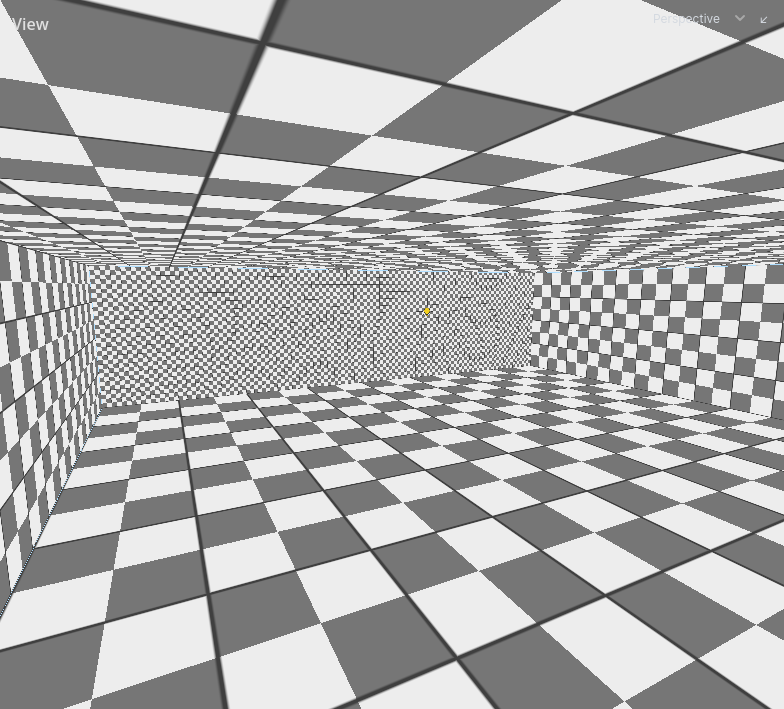
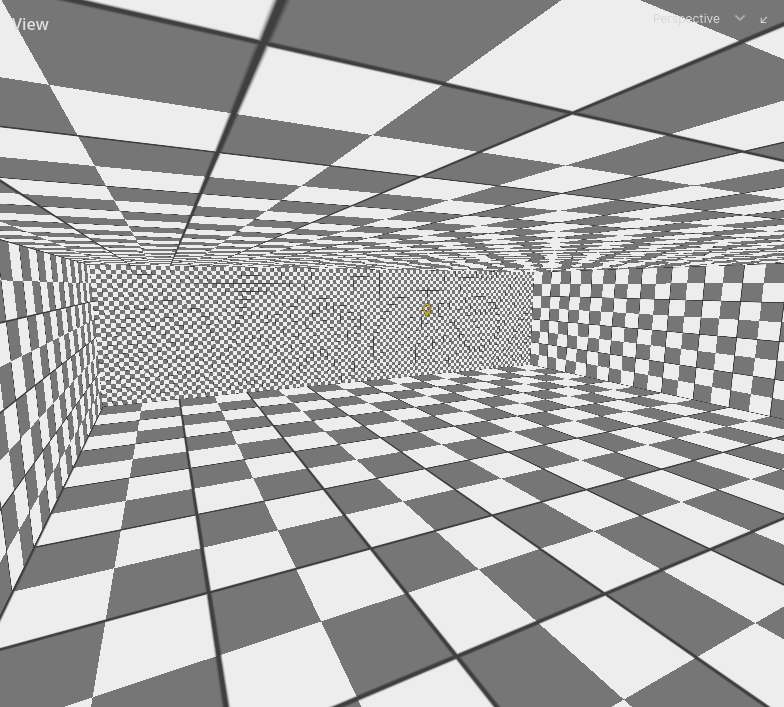
The lightmapper draft's pictures are taken again without the editor's wireframes, which drew a jagged line along every brush's edges

diff --git a/blog/lightmapper/index.html b/blog/lightmapper/index.html
@@ -200,7 +200,7 @@
 		seam.</p>
 
 		<figure>
-			<img src="baking-lightmap-scale.png" alt="A room in the editor with every surface showing a black and white checker pattern, one square per lightmap texel" width="784" height="709" loading="lazy">
+			<img src="baking-lightmap-scale.png" alt="A room in the editor with every surface showing a black and white checker pattern, one square per lightmap texel" width="784" height="707" loading="lazy">
 			<figcaption>The lightmap density view: one checker square is one texel.</figcaption>
 		</figure>
 
@@ -225,7 +225,7 @@
 		sky face also gives off the sky's own light.</p>
 
 		<figure>
-			<img src="lighting-sun.png" alt="A room lit by sunlight through a window, with a bright patch of sun on the floor and soft light on the walls" width="784" height="709" loading="lazy">
+			<img src="lighting-sun.png" alt="A room lit by sunlight through a window, with a bright patch of sun on the floor and soft light on the walls" width="784" height="707" loading="lazy">
 			<figcaption>Sunlight through a window, and the sky's light bouncing around the room.</figcaption>
 		</figure>
 
@@ -433,7 +433,7 @@
 		level with 736 lamps a quick bake takes about a second.</p>
 
 		<figure>
-			<img src="lighting-bake.png" alt="The Hammerite editor with a lightmap tool panel showing the bake settings beside two lit rooms" width="1092" height="709" loading="lazy">
+			<img src="lighting-bake.png" alt="The Hammerite editor with a lightmap tool panel showing the bake settings beside two lit rooms" width="1092" height="707" loading="lazy">
 			<figcaption>The lightmap tool in the editor.</figcaption>
 		</figure>
 
